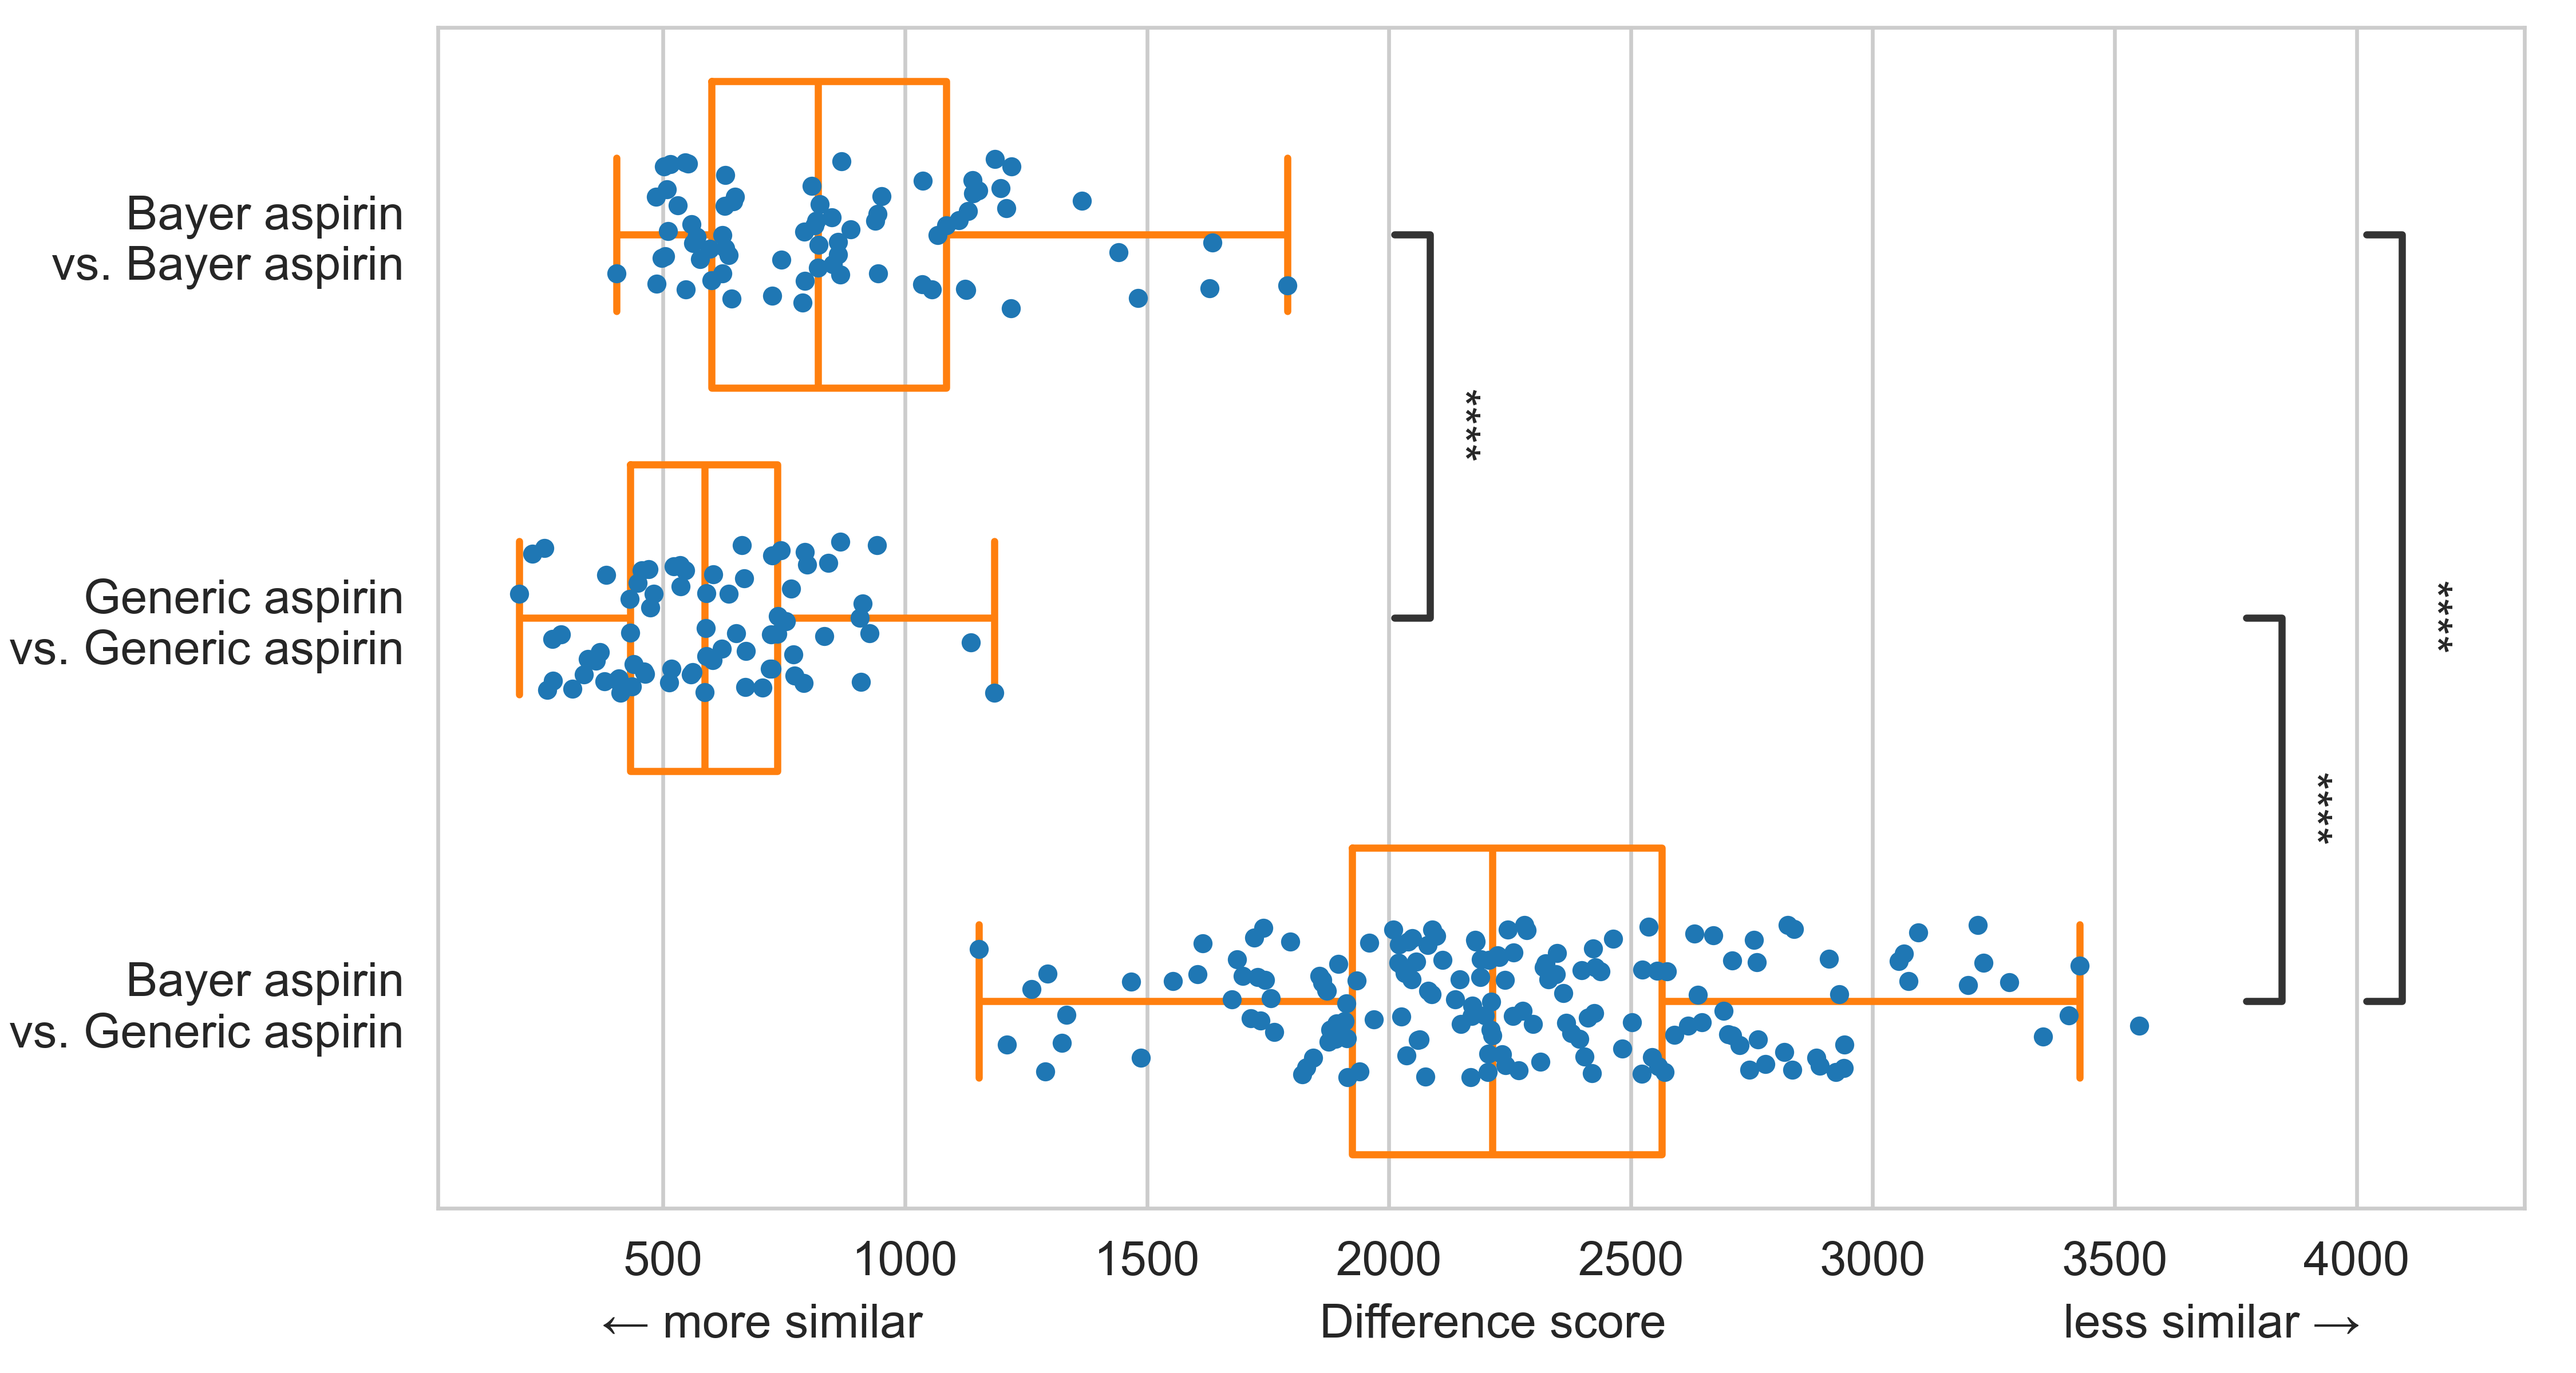
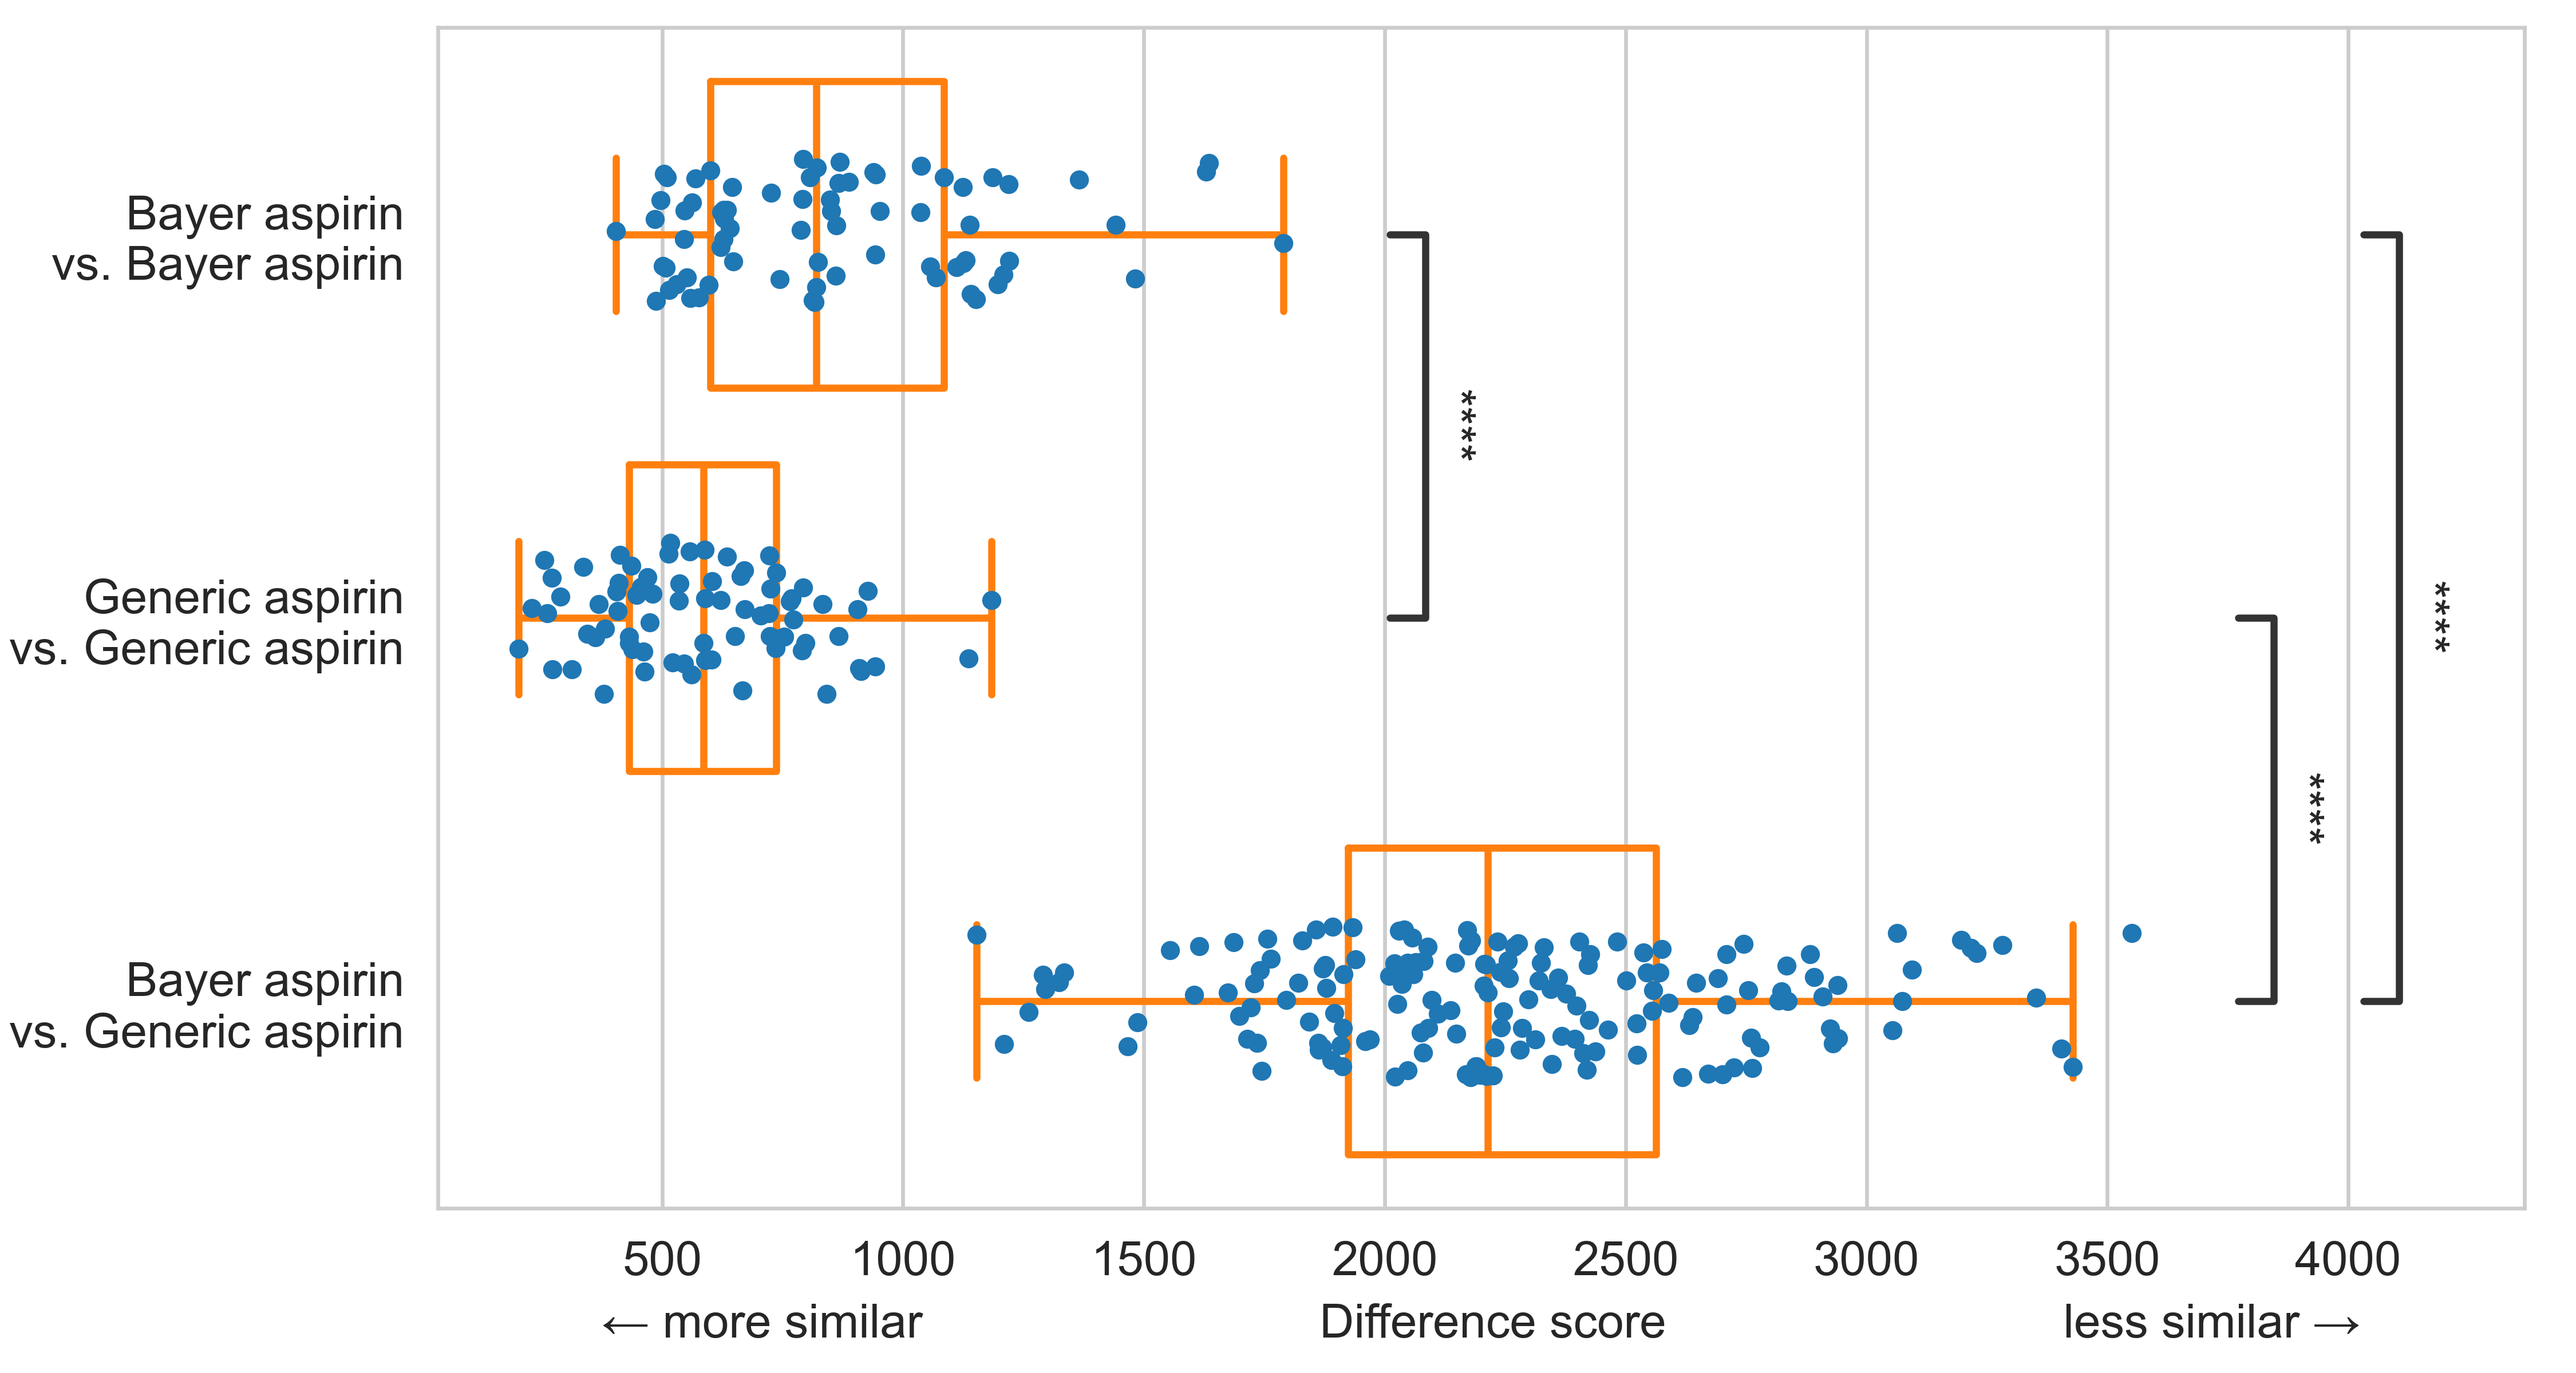
paper revisions

diff --git a/df-significance.py b/df-significance.py
@@ -69,18 +69,10 @@ if args.figure == "aspirin":
 	plt.savefig("aspirin_significance.png", dpi=600)
 
 
-	print("MEAN:")
-	print(df[["drugtype", "score"]].groupby("drugtype").mean())
-	print()
-	print("MEDIAN:")
-	print(df[["drugtype", "score"]].groupby("drugtype").median())
-	print()
-	print("STD DEV:")
-	print(df[["drugtype", "score"]].groupby("drugtype").std())
 	
 
-
-
+	print()
+	print(df[["drugtype", "score"]].groupby("drugtype").describe())
 
 
 
@@ -134,7 +126,7 @@ elif args.figure == "bayer_tylenol":
 				print("NOTHING YET")
 
 	df = pd.DataFrame(uber, columns=["drugtype", "score"])
-	df = df.drop_duplicates()
+	# df = df.drop_duplicates()
 	# print(df)
 
 	order = ["Bayer vs. Bayer (same lot)",
@@ -186,7 +178,7 @@ elif args.figure == "variety":
 		for y, i in enumerate(d[l]):
 
 			print(x, i[1], y, i[3], i[4])  # short
-			# print(x, i[0], y, i[2], i[4], end=" ")  # full
+			print(x, i[0], y, i[2], i[4], end=" ")  # full
 			if i[1] == i[3]:    # match
 				print("MATCH")
 				uber.append([i[1], i[4], True])
@@ -195,7 +187,7 @@ elif args.figure == "variety":
 				uber.append([i[1], i[4], False])
 
 	df = pd.DataFrame(uber, columns=["drugtype", "score", "match"])
-	df = df.drop_duplicates()
+	df = df.drop_duplicates()   # included here to avoid repeat points from self-comparisons
 
 	fig, axs = plt.subplots(figsize=(7.5, 9))
 	plt.subplots_adjust(left=0.25, right=0.98, top=0.98, bottom=0.05)
@@ -207,16 +199,13 @@ elif args.figure == "variety":
 	axs.set_ylabel("")
 	plt.savefig("variety_significance.png", dpi=600)
 
-	print()
 	print("MISMATCHES:")
-	print("mean", df[~df["match"]]["score"].mean())
-	print("median", df[~df["match"]]["score"].median())
-	print("std", df[~df["match"]]["score"].std())
+	print(df[~df["match"]]["score"].describe())
 	print()
 	print("MATCHES")
-	print("mean", df[df["match"]]["score"].mean())
-	print("median", df[df["match"]]["score"].median())
-	print("std", df[df["match"]]["score"].std())
+	print(df[df["match"]]["score"].describe())
+	print()
+	print(df[["drugtype", "score"]].groupby("drugtype").describe())
 
 
 
